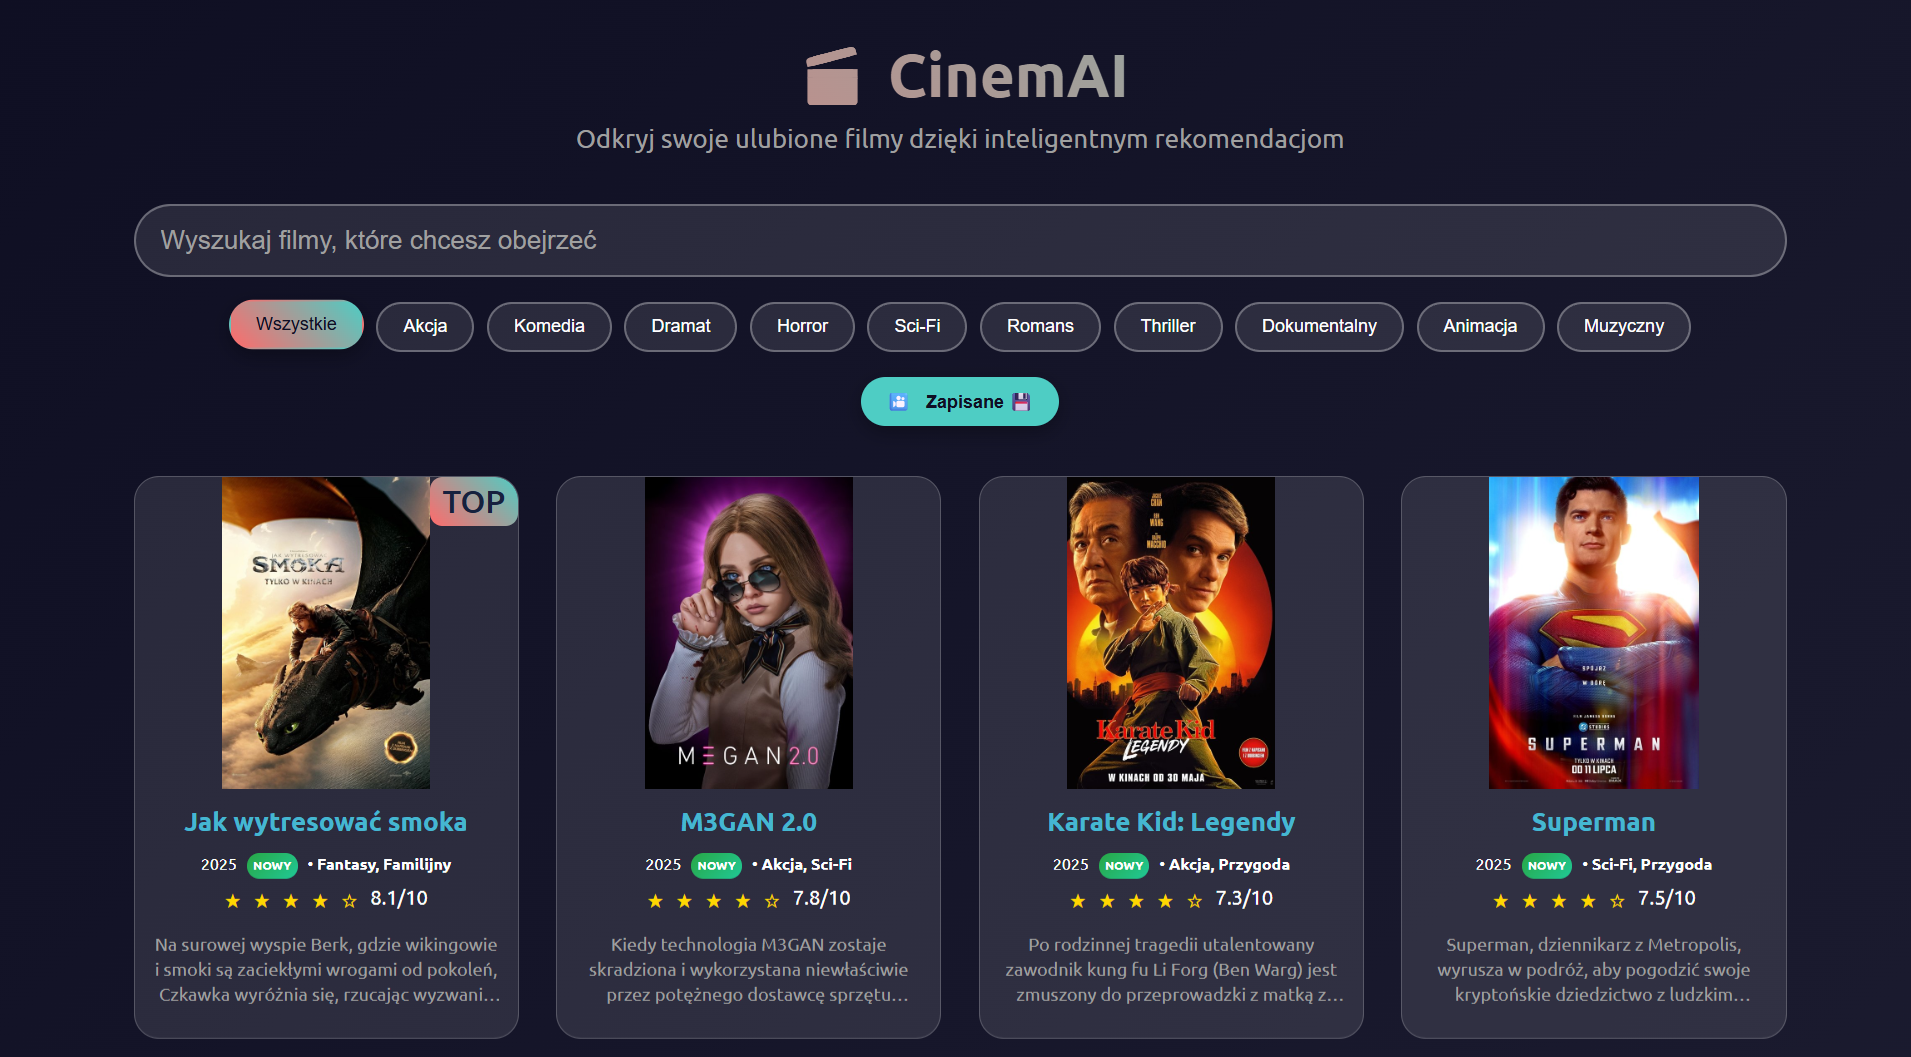
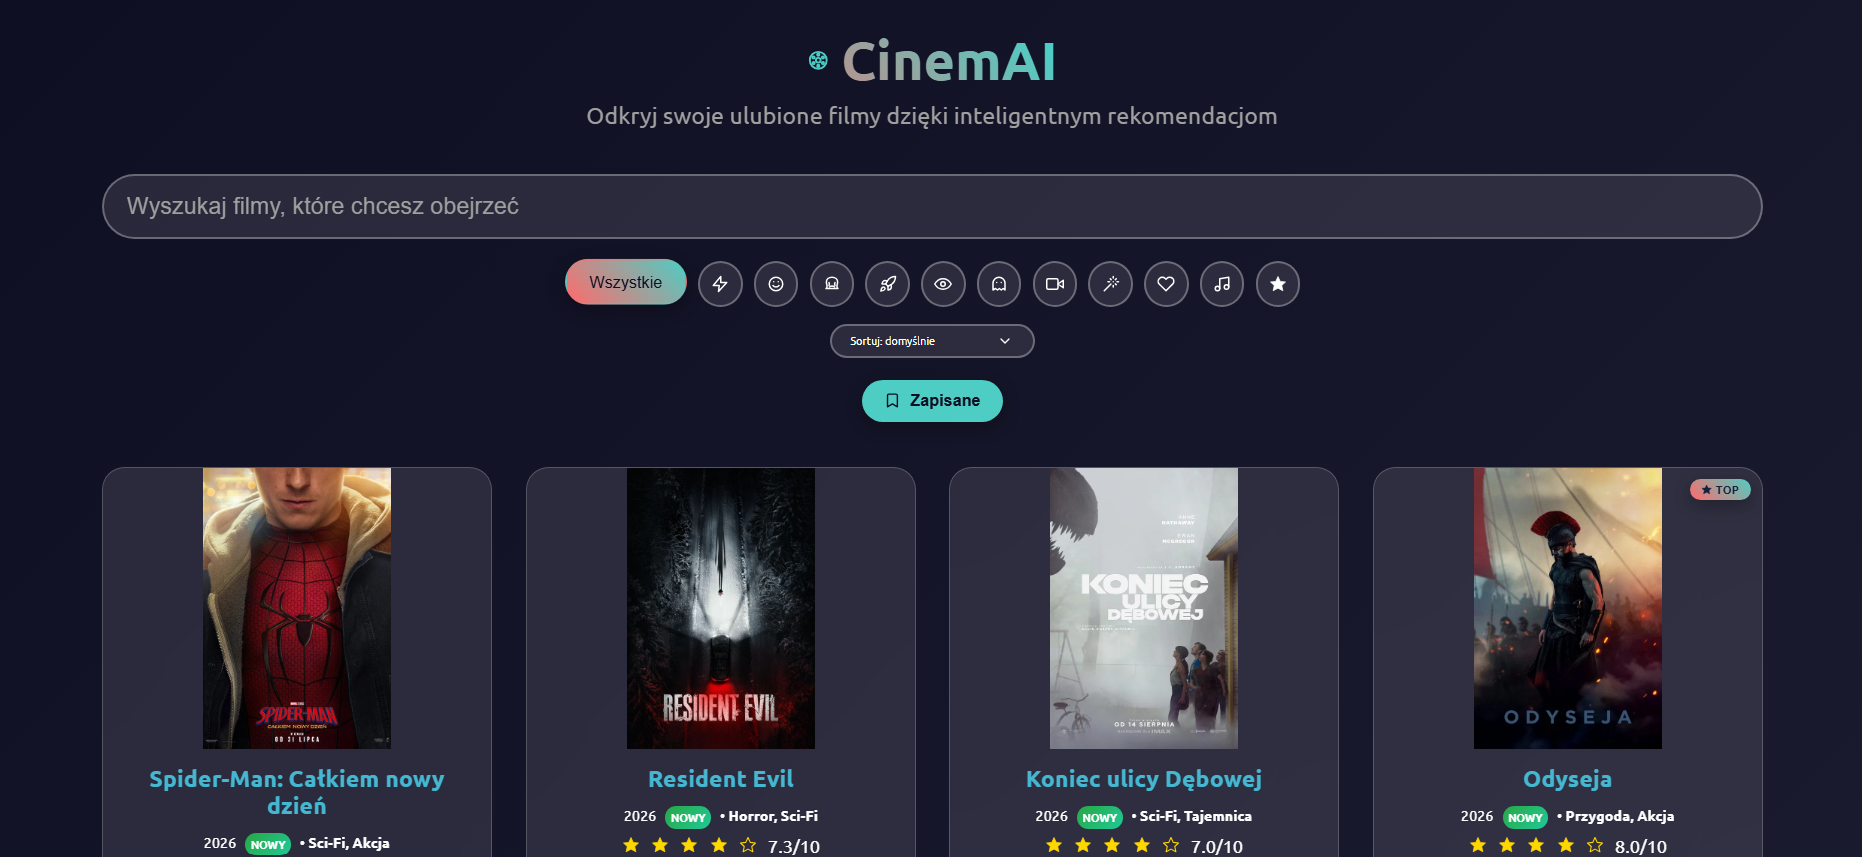
docs: add home page and movie window screenshots

Changed region(s): [[0.0623, 0.182, 0.9656, 1.0], [0.3115, 0.0303, 0.7164, 0.1517]]

diff --git a/README.md b/README.md
@@ -3,7 +3,8 @@ PL
 Znajdź filmy, które Ciebie interesują. Aplikacja webowa w języku polskim do wyszukiwania i zarządzania filmami z wykorzystaniem API The Movie Database (TMDb). Zbudowana w czystym HTML, CSS i JavaScript bez zewnętrznych frameworków. 
 
 <p align="center">
-  <img src="CinemAI.png" alt="Dashboard Preview" width="800"/>
+  <img src="CinemAI.png" alt="Strona główna" width="74%"/>
+  <img src="CinemAI2.png" alt="Karta filmu" width="22%"/>
 </p>
 
 ## Inteligentne Wyszukiwanie. Filtrowanie, Sortowanie i Zapisywanie Filmów
@@ -20,8 +21,8 @@ Obsada i reżyser - kliknięcie nazwiska wyszukuje pozostałe filmy tej osoby <b
 Zwiastun odtwarzany bezpośrednio w oknie filmu <br />
 Podobne filmy - karuzela propozycji dobieranych na podstawie gatunku <br />
 Linki do Filmweb i Google (do szybkiego wyszukiwania) <br />
-Oznaczenia nowych filmów <br /> 
-Rekomendacje TOP dla najlepszych filmów <br />
+Plakietka NOWY przy filmach z ostatnich 6 miesięcy <br /> 
+Plakietka TOP przy filmach z oceną 7.9 i wyżej <br />
 
 ## Prosty Interfejs Użytkownika
 Responsywny design <br />
@@ -69,8 +70,8 @@ Cast and director - clicking a name searches for that person's other movies <br 
 Trailer played right inside the movie window <br />
 Similar movies - a carousel of suggestions picked by genre <br />
 Links to Filmweb and Google (for quick searching) <br />
-New movie labels <br />
-TOP recommendations for best movies <br />
+"NEW" badge for movies released in the last 6 months <br />
+"TOP" badge for movies rated 7.9 and above <br />
 
 ## Simple User Interface
 Responsive design <br />
